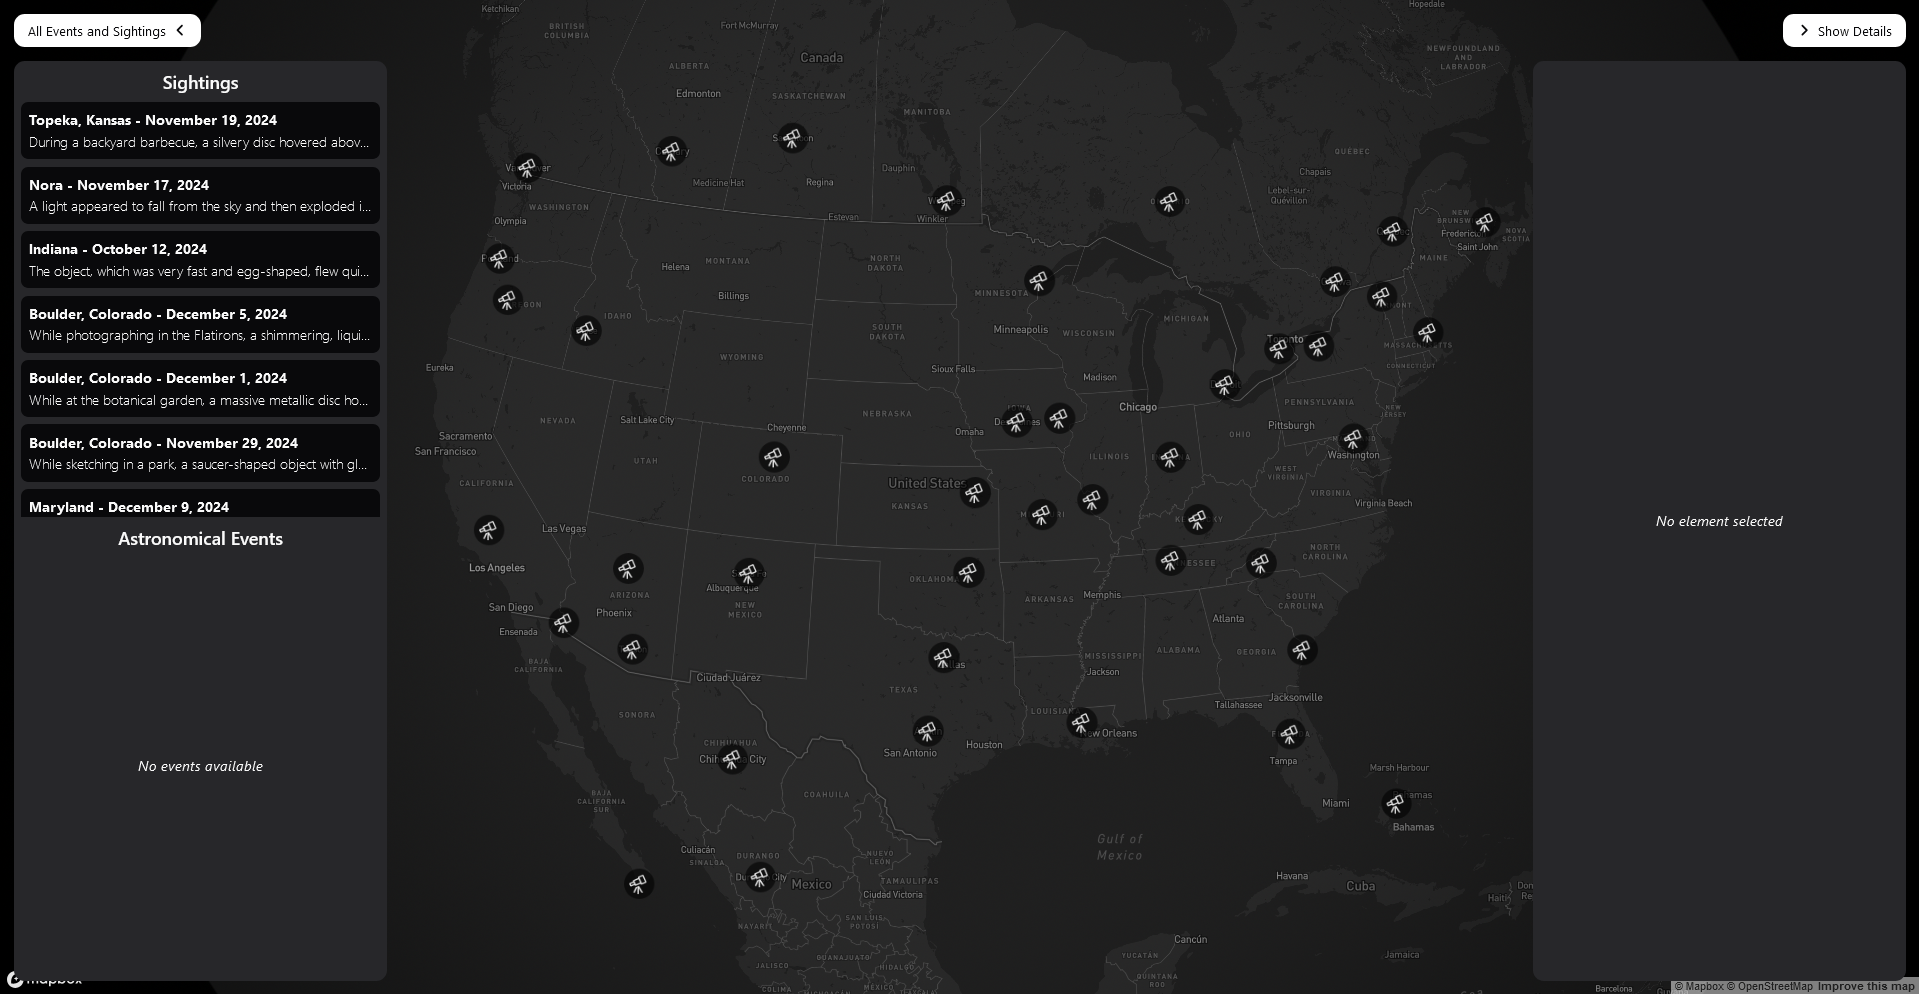
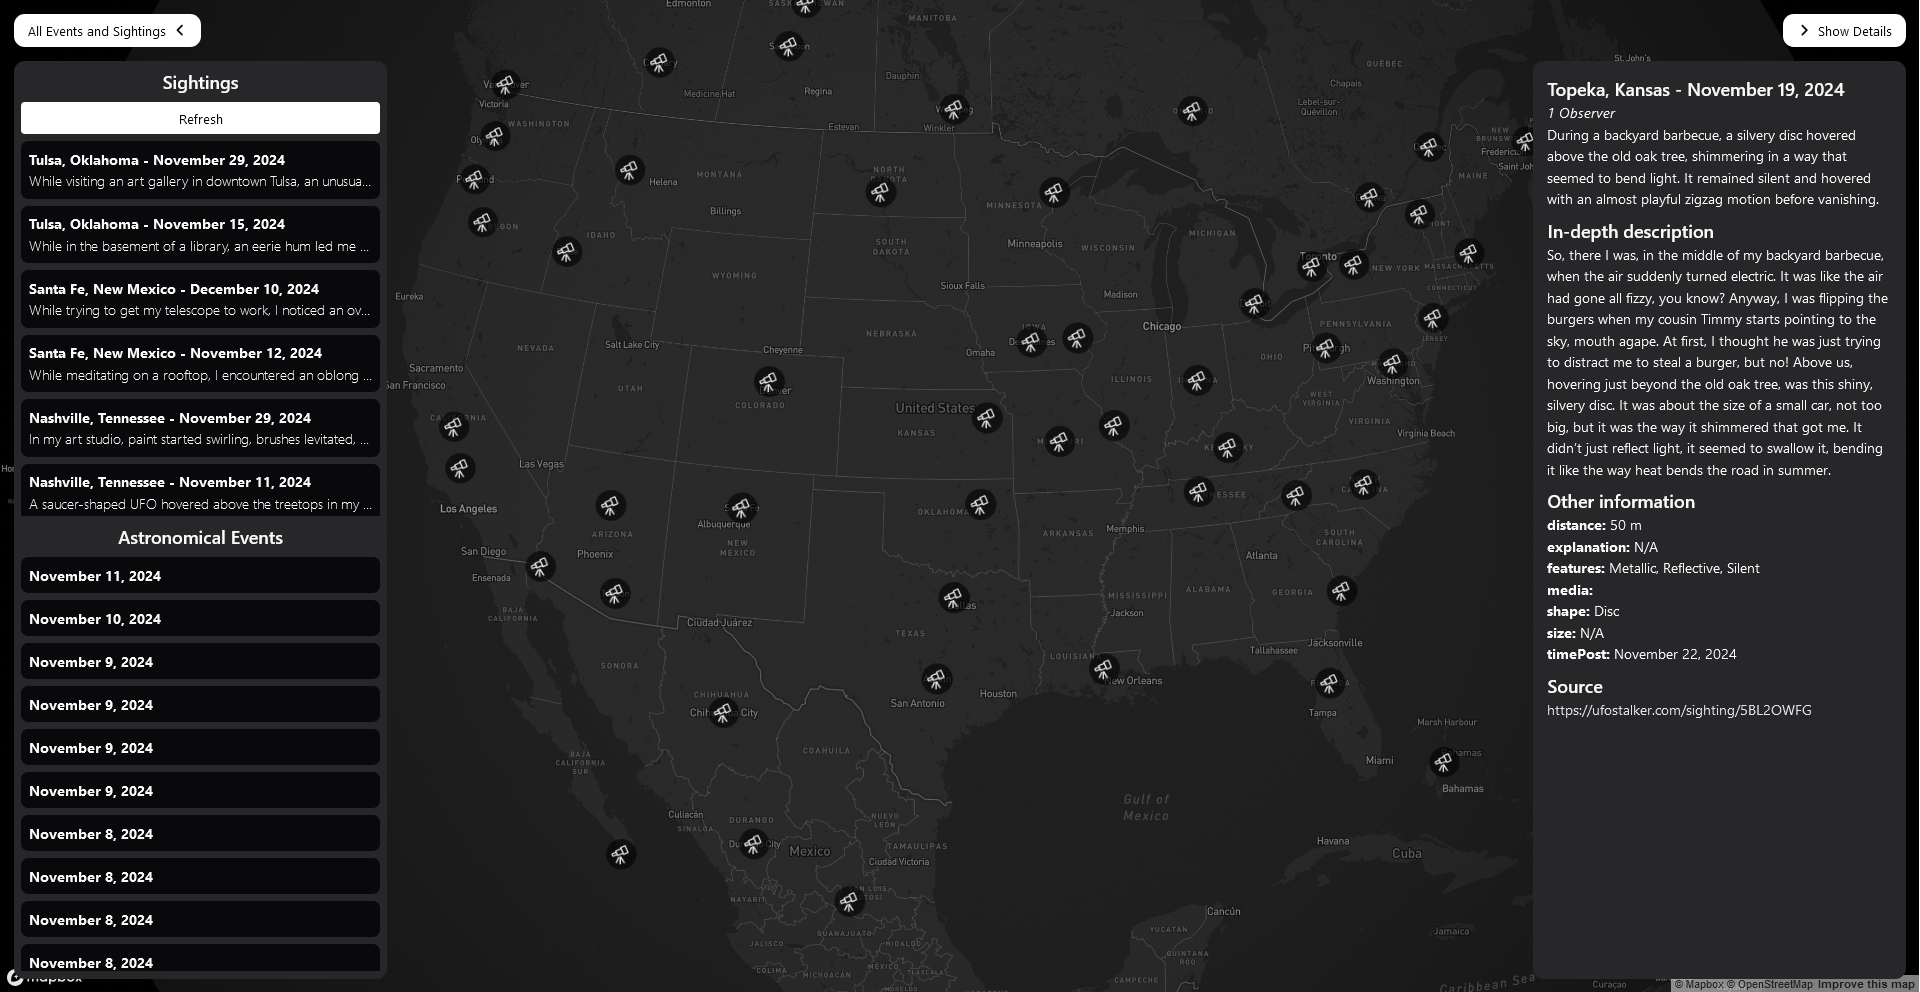
report: updated part about frontend to current version (with refresh button)

diff --git a/report/parts/subparts/frontend-implementacion.tex b/report/parts/subparts/frontend-implementacion.tex
@@ -4,14 +4,15 @@ Para el frontend nuestra prueba de concepto implementa todas las funciones funda
 \begin{itemize}
     \item Accede a los datos recompilados según el backend
     \item Muestra los elementos en el mapa (donde aplicable)
-    \item Tiene listas de todos los elementos disponible (ordenados por proximidad donde aplicable)
+    \item Tiene listas de todos los elementos disponible (ordenados por proximidad donde aplicable) y una opción de manualmente recargar los datos del backend.
     \item Ofrece una vista de detalles para elementos especificos
 \end{itemize}
 
 \paragraph{Biblioteca JavaScript}
 Usamos \emph{React} cómo herramienta básica.
 
-Nuestros requisitos funcionales para el frontend forman un ejemplo destacado de un \emph{Single Page Application} (aplicación de una sola página), porque por diseño es una sola página con comportamiento complejo. La implementación también beneficio del gran foco a componentes individuales.
+Nuestros requisitos funcionales para el frontend forman un ejemplo destacado de un \emph{Single Page Application} (aplicación de una sola página), porque por diseño es una sola página con comportamiento complejo. Por lo tanto,
+React es una opción obvia. La implementación también beneficio de su gran foco a componentes individuales.
 
 \paragraph{Marco de interfaz de usuario}
 Para estructurar la interfaz usamos \emph{Chakra-UI}.
@@ -21,7 +22,7 @@ Ayuda con acelerar el desarrollo con bloques de construcción predefinidos. En l
 \paragraph{Mapa}
 El núcleo del frontend constituye la integración con \emph{Mapbox}.
 
-La gran ventaja de usar Mapbox sobre otro proveedor de mapas es que el uso se mide por las cargas de página y no baldosas solicitado (qué pase siempre que hay movimiento). Ya que solo usamos un mapa, pero movemos mucho,
+La gran ventaja de usar Mapbox sobre otro proveedor de mapas es que el uso se mide por las cargas de página y no baldosas solicitado (que pase siempre que hay movimiento). Ya que solo usamos un mapa, pero movemos mucho,
 en nuestro caso es ideal.
 
 Usamos la API de Mapbox en directo con interacciones del usuario, directamente sobre el paquete JS proporcionada por el promotor.

diff --git a/report/parts/subparts/frontend-arquitectura.tex b/report/parts/subparts/frontend-arquitectura.tex
@@ -20,6 +20,7 @@ Posibles características incluyen:
         \item[Fecha] La opción de ordenar la lista de fecha.
     \end{itemize}
     \item[Comparar] Ofrecer una opción de seleccionar un elemento como objeto para comparar y relacionar todos los otros elementos a este.
+    \item[Datos] Ofrecer opciones de interactuar con el backend, por ejemplo recargar los datos.
 \end{itemize}
 
 \paragraph{Vista de detalles} Esta vista es para presentar los detalles del elemento actual.
